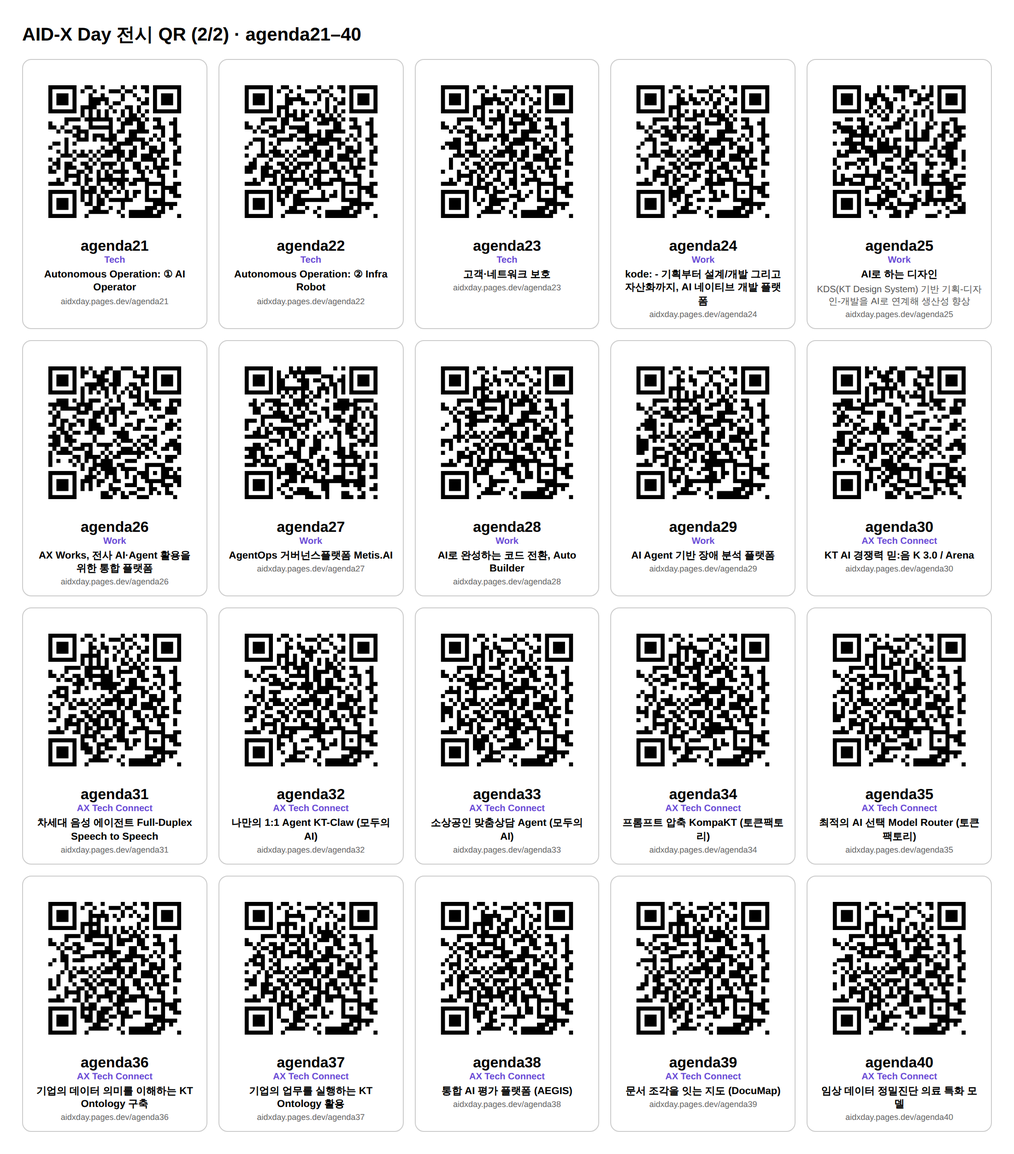
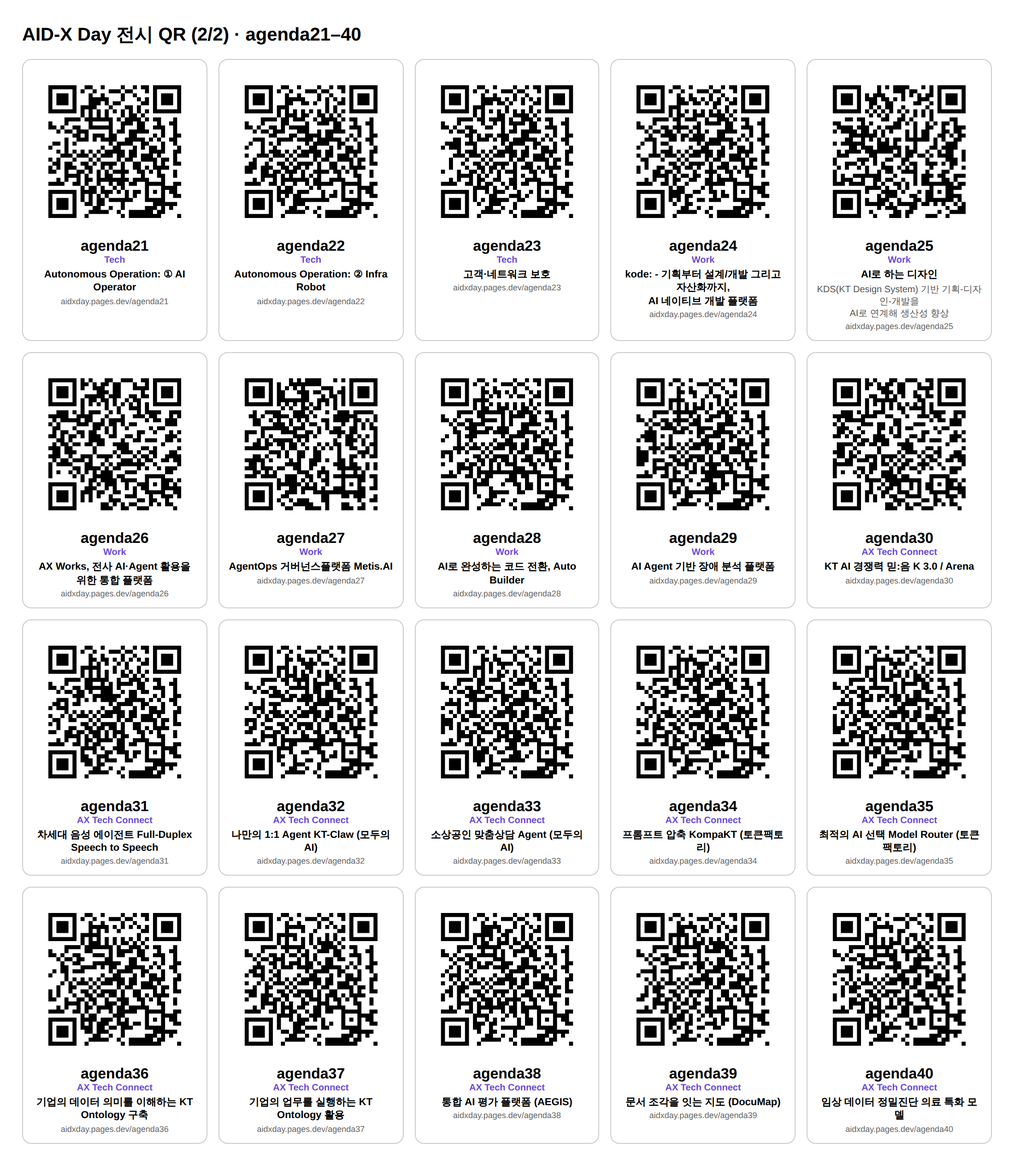
Sync aidx-day: per-category exhibit numbers, title line breaks; refresh QR sheets
Claude-Session: https://claude.ai/code/session_01ERFEuNLNeBDcTGC9L6qXGy

diff --git a/aidx-day-qr/agenda/sheet-1.html b/aidx-day-qr/agenda/sheet-1.html
@@ -1,1 +1,1 @@
-<!doctype html><meta charset=utf-8><title>AID-X Day 전시 QR (1/2) · agenda01–20</title><style>body{font-family:"Apple SD Gothic Neo","Malgun Gothic",sans-serif;margin:24px;width:1052px}h1{font-size:20px}.g{display:grid;grid-template-columns:repeat(5,1fr);gap:12px}.c{border:1px solid #ccc;border-radius:10px;padding:10px;text-align:center}.c img{width:100%}.n{font-weight:800}.z{font-size:10px;color:#6a4bd6;font-weight:700}.t{font-size:11px;margin-top:3px;line-height:1.3}.t{font-weight:700}.s{font-size:10px;color:#555;margin-top:2px;line-height:1.3}.u{font-size:9px;color:#666;margin-top:2px}</style><h1>AID-X Day 전시 QR (1/2) · agenda01–20</h1><div class=g><div class=c><img src="agenda01.svg"><div class=n>agenda01</div><div class=z>Innovation</div><div class=t>휴머노이드 Physical AI 학습•적용 모델</div><div class=s>제조•물류 AX Robot Skill Flywheel</div><div class=u>aidxday.pages.dev/agenda01</div></div><div class=c><img src="agenda02.svg"><div class=n>agenda02</div><div class=z>Innovation</div><div class=t>차량정비/보증 AX Agent Pack(feat. Glasses)</div><div class=s>연결부터 예측·정비·학습까지, Full Cycle AX</div><div class=u>aidxday.pages.dev/agenda02</div></div><div class=c><img src="agenda03.svg"><div class=n>agenda03</div><div class=z>Innovation</div><div class=t>UAM 교통관리 AX플랫폼</div><div class=s>UAM Agent 기반 도심항공 관제체계 혁신</div><div class=u>aidxday.pages.dev/agenda03</div></div><div class=c><img src="agenda04.svg"><div class=n>agenda04</div><div class=z>Innovation</div><div class=t>KT m&amp;s 유통 AX 혁신</div><div class=u>aidxday.pages.dev/agenda04</div></div><div class=c><img src="agenda05.svg"><div class=n>agenda05</div><div class=z>Innovation</div><div class=t>AX기반 글로벌 음악 콘텐츠 매출 인텔리전스</div><div class=u>aidxday.pages.dev/agenda05</div></div><div class=c><img src="agenda06.svg"><div class=n>agenda06</div><div class=z>Innovation</div><div class=t>Copilot 시나리오 플레이어</div><div class=u>aidxday.pages.dev/agenda06</div></div><div class=c><img src="agenda07.svg"><div class=n>agenda07</div><div class=z>Innovation</div><div class=t>MS Foundry Agent를 통해 Microsoft IQ 활용하기</div><div class=u>aidxday.pages.dev/agenda07</div></div><div class=c><img src="agenda08.svg"><div class=n>agenda08</div><div class=z>Biz</div><div class=t>AI, 고객의 목소리를 듣다</div><div class=s>다양한 채널의 고객 이슈와 개선 요구 발굴</div><div class=u>aidxday.pages.dev/agenda08</div></div><div class=c><img src="agenda09.svg"><div class=n>agenda09</div><div class=z>Biz</div><div class=t>태양광 발전량 예측 모델 개발 &amp; 24시간 취약점 · 오픈소스 대응 Agent</div><div class=u>aidxday.pages.dev/agenda09</div></div><div class=c><img src="agenda10.svg"><div class=n>agenda10</div><div class=z>Biz</div><div class=t>AX B2B 사업혁신</div><div class=s>AI Agent로 B2B 영업·마케팅·고객접점을 E2E로 혁신</div><div class=u>aidxday.pages.dev/agenda10</div></div><div class=c><img src="agenda11.svg"><div class=n>agenda11</div><div class=z>Biz</div><div class=t>MAGMA BIDW</div><div class=s>‘찾는’ 분석에서 ‘AI에게 묻는’ 분석으로</div><div class=u>aidxday.pages.dev/agenda11</div></div><div class=c><img src="agenda12.svg"><div class=n>agenda12</div><div class=z>Biz</div><div class=t>Orchestrator 기술로 더 똑똑해진 마이케이티 AI Agent</div><div class=u>aidxday.pages.dev/agenda12</div></div><div class=c><img src="agenda13.svg"><div class=n>agenda13</div><div class=z>Biz</div><div class=t>취향까지 이해하는 지니 TV : Evolving Persona</div><div class=u>aidxday.pages.dev/agenda13</div></div><div class=c><img src="agenda14.svg"><div class=n>agenda14</div><div class=z>Biz</div><div class=t>암묵지와 Agentic AI 기반 산업특화 AX (특허/수주전략/공공)</div><div class=u>aidxday.pages.dev/agenda14</div></div><div class=c><img src="agenda15.svg"><div class=n>agenda15</div><div class=z>Biz</div><div class=t>믿을 수 있는 안전한 통합 AI 가드레일 (토큰팩토리)</div><div class=u>aidxday.pages.dev/agenda15</div></div><div class=c><img src="agenda16.svg"><div class=n>agenda16</div><div class=z>Biz</div><div class=t>N2SF 대응을 위한 AI보안 솔루션 (PRIBIT AI)</div><div class=u>aidxday.pages.dev/agenda16</div></div><div class=c><img src="agenda17.svg"><div class=n>agenda17</div><div class=z>Tech</div><div class=t>KRONOS : AI 보안 진단 플랫폼</div><div class=u>aidxday.pages.dev/agenda17</div></div><div class=c><img src="agenda18.svg"><div class=n>agenda18</div><div class=z>Tech</div><div class=t>Edge AI 기반 Physical AI 핵심기술</div><div class=u>aidxday.pages.dev/agenda18</div></div><div class=c><img src="agenda19.svg"><div class=n>agenda19</div><div class=z>Tech</div><div class=t>6G</div><div class=u>aidxday.pages.dev/agenda19</div></div><div class=c><img src="agenda20.svg"><div class=n>agenda20</div><div class=z>Tech</div><div class=t>Quantum Security</div><div class=u>aidxday.pages.dev/agenda20</div></div></div>
+<!doctype html><meta charset=utf-8><title>AID-X Day 전시 QR (1/2) · agenda01–20</title><style>body{font-family:"Apple SD Gothic Neo","Malgun Gothic",sans-serif;margin:24px;width:1052px}h1{font-size:20px}.g{display:grid;grid-template-columns:repeat(5,1fr);gap:12px}.c{border:1px solid #ccc;border-radius:10px;padding:10px;text-align:center}.c img{width:100%}.n{font-weight:800}.z{font-size:10px;color:#6a4bd6;font-weight:700}.t{font-size:11px;margin-top:3px;line-height:1.3}.t{font-weight:700}.s{font-size:10px;color:#555;margin-top:2px;line-height:1.3}.u{font-size:9px;color:#666;margin-top:2px}</style><h1>AID-X Day 전시 QR (1/2) · agenda01–20</h1><div class=g><div class=c><img src="agenda01.svg"><div class=n>agenda01</div><div class=z>Innovation</div><div class=t>휴머노이드 Physical AI 학습•적용 모델</div><div class=s>제조•물류 AX Robot Skill Flywheel</div><div class=u>aidxday.pages.dev/agenda01</div></div><div class=c><img src="agenda02.svg"><div class=n>agenda02</div><div class=z>Innovation</div><div class=t>차량정비/보증 AX Agent Pack(feat. Glasses)</div><div class=s>연결부터 예측·정비·학습까지, Full Cycle AX</div><div class=u>aidxday.pages.dev/agenda02</div></div><div class=c><img src="agenda03.svg"><div class=n>agenda03</div><div class=z>Innovation</div><div class=t>UAM 교통관리 AX플랫폼</div><div class=s>UAM Agent 기반 도심항공 관제체계 혁신</div><div class=u>aidxday.pages.dev/agenda03</div></div><div class=c><img src="agenda04.svg"><div class=n>agenda04</div><div class=z>Innovation</div><div class=t>KT m&amp;s 유통 AX 혁신</div><div class=u>aidxday.pages.dev/agenda04</div></div><div class=c><img src="agenda05.svg"><div class=n>agenda05</div><div class=z>Innovation</div><div class=t>AX기반 글로벌 음악 콘텐츠 매출 인텔리전스</div><div class=u>aidxday.pages.dev/agenda05</div></div><div class=c><img src="agenda06.svg"><div class=n>agenda06</div><div class=z>Innovation</div><div class=t>Copilot 시나리오 플레이어</div><div class=u>aidxday.pages.dev/agenda06</div></div><div class=c><img src="agenda07.svg"><div class=n>agenda07</div><div class=z>Innovation</div><div class=t>MS Foundry Agent를 통해 Microsoft IQ 활용하기</div><div class=u>aidxday.pages.dev/agenda07</div></div><div class=c><img src="agenda08.svg"><div class=n>agenda08</div><div class=z>Biz</div><div class=t>AI, 고객의 목소리를 듣다</div><div class=s>다양한 채널의 고객 이슈와 개선 요구 발굴</div><div class=u>aidxday.pages.dev/agenda08</div></div><div class=c><img src="agenda09.svg"><div class=n>agenda09</div><div class=z>Biz</div><div class=t>태양광 발전량 예측 모델 개발 &amp; 24시간 취약점 · 오픈소스 대응 Agent</div><div class=u>aidxday.pages.dev/agenda09</div></div><div class=c><img src="agenda10.svg"><div class=n>agenda10</div><div class=z>Biz</div><div class=t>AX B2B 사업혁신</div><div class=s>AI Agent로 B2B 영업·마케팅·고객접점을 E2E로 혁신</div><div class=u>aidxday.pages.dev/agenda10</div></div><div class=c><img src="agenda11.svg"><div class=n>agenda11</div><div class=z>Biz</div><div class=t>MAGMA BIDW</div><div class=s>‘찾는’ 분석에서 ‘AI에게 묻는’ 분석으로</div><div class=u>aidxday.pages.dev/agenda11</div></div><div class=c><img src="agenda12.svg"><div class=n>agenda12</div><div class=z>Biz</div><div class=t>Orchestrator 기술로 더 똑똑해진<br>마이케이티 AI Agent</div><div class=u>aidxday.pages.dev/agenda12</div></div><div class=c><img src="agenda13.svg"><div class=n>agenda13</div><div class=z>Biz</div><div class=t>취향까지 이해하는 지니 TV : Evolving Persona</div><div class=u>aidxday.pages.dev/agenda13</div></div><div class=c><img src="agenda14.svg"><div class=n>agenda14</div><div class=z>Biz</div><div class=t>암묵지와 Agentic AI 기반 산업특화 AX (특허/수주전략/공공)</div><div class=u>aidxday.pages.dev/agenda14</div></div><div class=c><img src="agenda15.svg"><div class=n>agenda15</div><div class=z>Biz</div><div class=t>믿을 수 있는 안전한 통합 AI 가드레일 (토큰팩토리)</div><div class=u>aidxday.pages.dev/agenda15</div></div><div class=c><img src="agenda16.svg"><div class=n>agenda16</div><div class=z>Biz</div><div class=t>N2SF 대응을 위한 AI보안 솔루션 (PRIBIT AI)</div><div class=u>aidxday.pages.dev/agenda16</div></div><div class=c><img src="agenda17.svg"><div class=n>agenda17</div><div class=z>Tech</div><div class=t>KRONOS : AI 보안 진단 플랫폼</div><div class=u>aidxday.pages.dev/agenda17</div></div><div class=c><img src="agenda18.svg"><div class=n>agenda18</div><div class=z>Tech</div><div class=t>Edge AI 기반 Physical AI 핵심기술</div><div class=u>aidxday.pages.dev/agenda18</div></div><div class=c><img src="agenda19.svg"><div class=n>agenda19</div><div class=z>Tech</div><div class=t>6G</div><div class=u>aidxday.pages.dev/agenda19</div></div><div class=c><img src="agenda20.svg"><div class=n>agenda20</div><div class=z>Tech</div><div class=t>Quantum Security</div><div class=u>aidxday.pages.dev/agenda20</div></div></div>

diff --git a/aidx-day-qr/agenda/sheet-2.html b/aidx-day-qr/agenda/sheet-2.html
@@ -1,1 +1,1 @@
-<!doctype html><meta charset=utf-8><title>AID-X Day 전시 QR (2/2) · agenda21–40</title><style>body{font-family:"Apple SD Gothic Neo","Malgun Gothic",sans-serif;margin:24px;width:1052px}h1{font-size:20px}.g{display:grid;grid-template-columns:repeat(5,1fr);gap:12px}.c{border:1px solid #ccc;border-radius:10px;padding:10px;text-align:center}.c img{width:100%}.n{font-weight:800}.z{font-size:10px;color:#6a4bd6;font-weight:700}.t{font-size:11px;margin-top:3px;line-height:1.3}.t{font-weight:700}.s{font-size:10px;color:#555;margin-top:2px;line-height:1.3}.u{font-size:9px;color:#666;margin-top:2px}</style><h1>AID-X Day 전시 QR (2/2) · agenda21–40</h1><div class=g><div class=c><img src="agenda21.svg"><div class=n>agenda21</div><div class=z>Tech</div><div class=t>Autonomous Operation: ① AI Operator</div><div class=u>aidxday.pages.dev/agenda21</div></div><div class=c><img src="agenda22.svg"><div class=n>agenda22</div><div class=z>Tech</div><div class=t>Autonomous Operation: ② Infra Robot</div><div class=u>aidxday.pages.dev/agenda22</div></div><div class=c><img src="agenda23.svg"><div class=n>agenda23</div><div class=z>Tech</div><div class=t>고객·네트워크 보호</div><div class=u>aidxday.pages.dev/agenda23</div></div><div class=c><img src="agenda24.svg"><div class=n>agenda24</div><div class=z>Work</div><div class=t>kode: - 기획부터 설계/개발 그리고 자산화까지, AI 네이티브 개발 플랫폼</div><div class=u>aidxday.pages.dev/agenda24</div></div><div class=c><img src="agenda25.svg"><div class=n>agenda25</div><div class=z>Work</div><div class=t>AI로 하는 디자인</div><div class=s>KDS(KT Design System) 기반 기획-디자인-개발을 AI로 연계해 생산성 향상</div><div class=u>aidxday.pages.dev/agenda25</div></div><div class=c><img src="agenda26.svg"><div class=n>agenda26</div><div class=z>Work</div><div class=t>AX Works, 전사 AI·Agent 활용을 위한 통합 플랫폼</div><div class=u>aidxday.pages.dev/agenda26</div></div><div class=c><img src="agenda27.svg"><div class=n>agenda27</div><div class=z>Work</div><div class=t>AgentOps 거버넌스플랫폼 Metis.AI</div><div class=u>aidxday.pages.dev/agenda27</div></div><div class=c><img src="agenda28.svg"><div class=n>agenda28</div><div class=z>Work</div><div class=t>AI로 완성하는 코드 전환, Auto Builder</div><div class=u>aidxday.pages.dev/agenda28</div></div><div class=c><img src="agenda29.svg"><div class=n>agenda29</div><div class=z>Work</div><div class=t>AI Agent 기반 장애 분석 플랫폼</div><div class=u>aidxday.pages.dev/agenda29</div></div><div class=c><img src="agenda30.svg"><div class=n>agenda30</div><div class=z>AX Tech Connect</div><div class=t>KT AI 경쟁력 믿:음 K 3.0 / Arena</div><div class=u>aidxday.pages.dev/agenda30</div></div><div class=c><img src="agenda31.svg"><div class=n>agenda31</div><div class=z>AX Tech Connect</div><div class=t>차세대 음성 에이전트 Full-Duplex Speech to Speech</div><div class=u>aidxday.pages.dev/agenda31</div></div><div class=c><img src="agenda32.svg"><div class=n>agenda32</div><div class=z>AX Tech Connect</div><div class=t>나만의 1:1 Agent KT-Claw (모두의 AI)</div><div class=u>aidxday.pages.dev/agenda32</div></div><div class=c><img src="agenda33.svg"><div class=n>agenda33</div><div class=z>AX Tech Connect</div><div class=t>소상공인 맞춤상담 Agent (모두의 AI)</div><div class=u>aidxday.pages.dev/agenda33</div></div><div class=c><img src="agenda34.svg"><div class=n>agenda34</div><div class=z>AX Tech Connect</div><div class=t>프롬프트 압축 KompaKT (토큰팩토리)</div><div class=u>aidxday.pages.dev/agenda34</div></div><div class=c><img src="agenda35.svg"><div class=n>agenda35</div><div class=z>AX Tech Connect</div><div class=t>최적의 AI 선택 Model Router (토큰팩토리)</div><div class=u>aidxday.pages.dev/agenda35</div></div><div class=c><img src="agenda36.svg"><div class=n>agenda36</div><div class=z>AX Tech Connect</div><div class=t>기업의 데이터 의미를 이해하는 KT Ontology 구축</div><div class=u>aidxday.pages.dev/agenda36</div></div><div class=c><img src="agenda37.svg"><div class=n>agenda37</div><div class=z>AX Tech Connect</div><div class=t>기업의 업무를 실행하는 KT Ontology 활용</div><div class=u>aidxday.pages.dev/agenda37</div></div><div class=c><img src="agenda38.svg"><div class=n>agenda38</div><div class=z>AX Tech Connect</div><div class=t>통합 AI 평가 플랫폼 (AEGIS)</div><div class=u>aidxday.pages.dev/agenda38</div></div><div class=c><img src="agenda39.svg"><div class=n>agenda39</div><div class=z>AX Tech Connect</div><div class=t>문서 조각을 잇는 지도 (DocuMap)</div><div class=u>aidxday.pages.dev/agenda39</div></div><div class=c><img src="agenda40.svg"><div class=n>agenda40</div><div class=z>AX Tech Connect</div><div class=t>임상 데이터 정밀진단 의료 특화 모델</div><div class=u>aidxday.pages.dev/agenda40</div></div></div>
+<!doctype html><meta charset=utf-8><title>AID-X Day 전시 QR (2/2) · agenda21–40</title><style>body{font-family:"Apple SD Gothic Neo","Malgun Gothic",sans-serif;margin:24px;width:1052px}h1{font-size:20px}.g{display:grid;grid-template-columns:repeat(5,1fr);gap:12px}.c{border:1px solid #ccc;border-radius:10px;padding:10px;text-align:center}.c img{width:100%}.n{font-weight:800}.z{font-size:10px;color:#6a4bd6;font-weight:700}.t{font-size:11px;margin-top:3px;line-height:1.3}.t{font-weight:700}.s{font-size:10px;color:#555;margin-top:2px;line-height:1.3}.u{font-size:9px;color:#666;margin-top:2px}</style><h1>AID-X Day 전시 QR (2/2) · agenda21–40</h1><div class=g><div class=c><img src="agenda21.svg"><div class=n>agenda21</div><div class=z>Tech</div><div class=t>Autonomous Operation: ① AI Operator</div><div class=u>aidxday.pages.dev/agenda21</div></div><div class=c><img src="agenda22.svg"><div class=n>agenda22</div><div class=z>Tech</div><div class=t>Autonomous Operation: ② Infra Robot</div><div class=u>aidxday.pages.dev/agenda22</div></div><div class=c><img src="agenda23.svg"><div class=n>agenda23</div><div class=z>Tech</div><div class=t>고객·네트워크 보호</div><div class=u>aidxday.pages.dev/agenda23</div></div><div class=c><img src="agenda24.svg"><div class=n>agenda24</div><div class=z>Work</div><div class=t>kode: - 기획부터 설계/개발 그리고 자산화까지,<br>AI 네이티브 개발 플랫폼</div><div class=u>aidxday.pages.dev/agenda24</div></div><div class=c><img src="agenda25.svg"><div class=n>agenda25</div><div class=z>Work</div><div class=t>AI로 하는 디자인</div><div class=s>KDS(KT Design System) 기반 기획-디자인-개발을<br>AI로 연계해 생산성 향상</div><div class=u>aidxday.pages.dev/agenda25</div></div><div class=c><img src="agenda26.svg"><div class=n>agenda26</div><div class=z>Work</div><div class=t>AX Works, 전사 AI·Agent 활용을 위한 통합 플랫폼</div><div class=u>aidxday.pages.dev/agenda26</div></div><div class=c><img src="agenda27.svg"><div class=n>agenda27</div><div class=z>Work</div><div class=t>AgentOps 거버넌스플랫폼 Metis.AI</div><div class=u>aidxday.pages.dev/agenda27</div></div><div class=c><img src="agenda28.svg"><div class=n>agenda28</div><div class=z>Work</div><div class=t>AI로 완성하는 코드 전환, Auto Builder</div><div class=u>aidxday.pages.dev/agenda28</div></div><div class=c><img src="agenda29.svg"><div class=n>agenda29</div><div class=z>Work</div><div class=t>AI Agent 기반 장애 분석 플랫폼</div><div class=u>aidxday.pages.dev/agenda29</div></div><div class=c><img src="agenda30.svg"><div class=n>agenda30</div><div class=z>AX Tech Connect</div><div class=t>KT AI 경쟁력 믿:음 K 3.0 / Arena</div><div class=u>aidxday.pages.dev/agenda30</div></div><div class=c><img src="agenda31.svg"><div class=n>agenda31</div><div class=z>AX Tech Connect</div><div class=t>차세대 음성 에이전트 Full-Duplex Speech to Speech</div><div class=u>aidxday.pages.dev/agenda31</div></div><div class=c><img src="agenda32.svg"><div class=n>agenda32</div><div class=z>AX Tech Connect</div><div class=t>나만의 1:1 Agent KT-Claw (모두의 AI)</div><div class=u>aidxday.pages.dev/agenda32</div></div><div class=c><img src="agenda33.svg"><div class=n>agenda33</div><div class=z>AX Tech Connect</div><div class=t>소상공인 맞춤상담 Agent (모두의 AI)</div><div class=u>aidxday.pages.dev/agenda33</div></div><div class=c><img src="agenda34.svg"><div class=n>agenda34</div><div class=z>AX Tech Connect</div><div class=t>프롬프트 압축 KompaKT (토큰팩토리)</div><div class=u>aidxday.pages.dev/agenda34</div></div><div class=c><img src="agenda35.svg"><div class=n>agenda35</div><div class=z>AX Tech Connect</div><div class=t>최적의 AI 선택 Model Router (토큰팩토리)</div><div class=u>aidxday.pages.dev/agenda35</div></div><div class=c><img src="agenda36.svg"><div class=n>agenda36</div><div class=z>AX Tech Connect</div><div class=t>기업의 데이터 의미를 이해하는 KT Ontology 구축</div><div class=u>aidxday.pages.dev/agenda36</div></div><div class=c><img src="agenda37.svg"><div class=n>agenda37</div><div class=z>AX Tech Connect</div><div class=t>기업의 업무를 실행하는 KT Ontology 활용</div><div class=u>aidxday.pages.dev/agenda37</div></div><div class=c><img src="agenda38.svg"><div class=n>agenda38</div><div class=z>AX Tech Connect</div><div class=t>통합 AI 평가 플랫폼 (AEGIS)</div><div class=u>aidxday.pages.dev/agenda38</div></div><div class=c><img src="agenda39.svg"><div class=n>agenda39</div><div class=z>AX Tech Connect</div><div class=t>문서 조각을 잇는 지도 (DocuMap)</div><div class=u>aidxday.pages.dev/agenda39</div></div><div class=c><img src="agenda40.svg"><div class=n>agenda40</div><div class=z>AX Tech Connect</div><div class=t>임상 데이터 정밀진단 의료 특화 모델</div><div class=u>aidxday.pages.dev/agenda40</div></div></div>

diff --git a/aidx-day/exhibits.js b/aidx-day/exhibits.js
@@ -7,6 +7,7 @@
    label   : 제목 앞 말머리 (예: "Garage") — 선택
    title   : 전시 제목 (여러 개면 ["(1) ...", "(2) ..."] 배열로)
    sub     : 부제목 — 제목 아래 작고 가는 글씨로 보여요 (선택)
+   ※ 제목·부제목 안의 \n 은 화면에서 줄바꿈돼요
    team    : 사이트에 보이는 담당 조직 (리플릿 테이블보드의 본부/조직)
    org     : 담당 부문 (기록용, 화면에는 안 보여요)
    ── 아래는 준비되는 대로 채우면 돼요. 비어 있으면 화면에서 숨기거나 '준비 중'으로 보여요.
@@ -64,7 +65,7 @@ const EXHIBITS = [
   { id: "agenda11", part: "biz", org: "IT부문", team: "AX플랫폼본부",
     title: "MAGMA BIDW", sub: "‘찾는’ 분석에서 ‘AI에게 묻는’ 분석으로" },
   { id: "agenda12", part: "biz", org: "AX미래기술원/IT부문", team: "Agentic AI Lab · AX플랫폼본부",
-    title: "Orchestrator 기술로 더 똑똑해진 마이케이티 AI Agent" },
+    title: "Orchestrator 기술로 더 똑똑해진\n마이케이티 AI Agent" },
   { id: "agenda13", part: "biz", org: "AX미래기술원", team: "Agentic AI Lab",
     title: "취향까지 이해하는 지니 TV : Evolving Persona" },
   { id: "agenda14", part: "biz", org: "AX미래기술원", team: "Agentic AI Lab",
@@ -92,9 +93,9 @@ const EXHIBITS = [
 
   // ---------------- Work (6) ----------------
   { id: "agenda24", part: "works", org: "IT부문", team: "IT전략본부",
-    title: "kode: - 기획부터 설계/개발 그리고 자산화까지, AI 네이티브 개발 플랫폼" },
+    title: "kode: - 기획부터 설계/개발 그리고 자산화까지,\nAI 네이티브 개발 플랫폼" },
   { id: "agenda25", part: "works", org: "IT부문", team: "AX플랫폼본부",
-    title: "AI로 하는 디자인", sub: "KDS(KT Design System) 기반 기획-디자인-개발을 AI로 연계해 생산성 향상" },
+    title: "AI로 하는 디자인", sub: "KDS(KT Design System) 기반 기획-디자인-개발을\nAI로 연계해 생산성 향상" },
   { id: "agenda26", part: "works", org: "IT부문", team: "AX플랫폼본부",
     title: "AX Works, 전사 AI·Agent 활용을 위한 통합 플랫폼" },
   { id: "agenda27", part: "works", org: "그룹사", team: "kt ds",
@@ -128,7 +129,12 @@ const ALL_EXHIBITS = [...EXHIBITS, ...TECH_CONNECT.items.map(x => ({ ...x, part:
 
 // 화면 표시용 도우미 (목록·상세 페이지 공통)
 const exTitles = e => Array.isArray(e.title) ? e.title : [e.title];
-const exTitleMain = e => (e.label ? `[${e.label}] ` : "") + exTitles(e).join(" / ");
-const exTitleText = e => exTitleMain(e) + (e.sub ? " " + e.sub : "");  // 페이지 제목·미리보기용 (부제목 포함)
+const flat = t => t.replace(/\s*\n\s*/g, " ");
+const exTitleMain = e => flat((e.label ? `[${e.label}] ` : "") + exTitles(e).join(" / "));
+const exTitleText = e => exTitleMain(e) + (e.sub ? " " + flat(e.sub) : "");  // 페이지 제목·미리보기용 (부제목 포함)
 const exTeam = e => e.team;
-const exNo = e => e.id.replace(/\D/g, "");
+// 화면에 보이는 번호 = 분류 안에서의 순서 (Innovation 01, Tech 01 …). 링크 주소(id)와는 별개예요
+const exNo = e => {
+  const part = ALL_EXHIBITS.find(x => x.id === e.id).part;
+  return String(ALL_EXHIBITS.filter(x => x.part === part).findIndex(x => x.id === e.id) + 1).padStart(2, "0");
+};

diff --git a/aidx-day/index.html b/aidx-day/index.html
@@ -437,9 +437,9 @@
   .ex-top { display: flex; justify-content: space-between; align-items: center; margin-bottom: 8px; }
   .ex-no { font-size: 12px; font-weight: 800; color: var(--c); font-variant-numeric: tabular-nums; letter-spacing: .04em; }
   .ex-title { font-size: 16px; font-weight: 800; line-height: 1.38; }
-  .ex-title span { display: block; }
+  .ex-title span { display: block; white-space: pre-line; }
   .ex-title span + span { margin-top: 4px; }
-  .ex-sub { font-size: 13.5px; font-weight: 500; color: var(--ink); opacity: .78; line-height: 1.45; margin-top: 4px; }
+  .ex-sub { white-space: pre-line; font-size: 13.5px; font-weight: 500; color: var(--ink); opacity: .78; line-height: 1.45; margin-top: 4px; }
   .ex-team { font-size: 13px; color: var(--ink-dim); margin-top: 6px; }
   .ex-sum { font-size: 14px; color: var(--ink-dim); margin-top: 8px; }
   .ex-more { font-size: 13px; font-weight: 800; color: var(--c); margin-top: 10px; }
@@ -1244,7 +1244,7 @@ function renderExhibits(v) {
     h("div", { class: "ex-grid" }, list.map(e =>
       h("a", { class: "ex-card", href: e.id },
         h("div", { class: "ex-top" },
-          h("span", { class: "ex-no" }, `Agenda ${exNo(e)}`),
+          h("span", { class: "ex-no" }, exNo(e)),
           e.label || e.booth ? h("span", { class: "badge", style: `--c:${p.color}` }, e.label || e.booth) : null),
         h("div", { class: "ex-title" }, exTitles(e).map(t => h("span", {}, t))),
         e.sub ? h("div", { class: "ex-sub" }, e.sub) : null,

diff --git a/aidx-day/agenda.css b/aidx-day/agenda.css
@@ -85,12 +85,12 @@ a { color: inherit; }
 }
 .head .row { display: flex; flex-wrap: wrap; align-items: center; gap: 8px; margin-bottom: 12px; }
 .head .num { font-size: 13px; color: var(--ink-faint); font-variant-numeric: tabular-nums; }
-.head h1 { margin: 0 0 8px; font-size: clamp(26px, 6.5vw, 40px); line-height: 1.2; font-weight: 900; letter-spacing: -0.02em; }
+.head h1 { white-space: pre-line; margin: 0 0 8px; font-size: clamp(26px, 6.5vw, 40px); line-height: 1.2; font-weight: 900; letter-spacing: -0.02em; }
 .head h1.multi { font-size: clamp(21px, 5.2vw, 30px); }
 .head h1.multi span { display: block; }
 .head h1.multi span + span { margin-top: 6px; }
 .card p.pending { color: var(--ink-dim); }
-.head .subtitle { margin: -2px 0 12px; font-size: clamp(16px, 4.2vw, 20px); font-weight: 500; line-height: 1.45; opacity: .82; }
+.head .subtitle { white-space: pre-line; margin: -2px 0 12px; font-size: clamp(16px, 4.2vw, 20px); font-weight: 500; line-height: 1.45; opacity: .82; }
 .head .team { color: var(--ink-dim); font-size: 15px; margin-bottom: 12px; }
 .head .summary { font-size: 17px; margin: 0; }
 

diff --git a/aidx-day/agenda.js b/aidx-day/agenda.js
@@ -54,7 +54,7 @@
       h("span", { class: "badge" }, part.name),
       x.label ? h("span", { class: "badge" }, x.label) : null,
       x.booth ? h("span", { class: "badge" }, `${x.booth} 부스`) : null,
-      h("span", { class: "num" }, `Agenda ${exNo(x)}`)),
+      h("span", { class: "num" }, exNo(x))),
     titles.length > 1
       ? h("h1", { class: "multi" }, titles.map(t => h("span", {}, t)))
       : h("h1", {}, titles[0]),
@@ -66,7 +66,7 @@
   if (x.image) visual.append(h("img", { src: x.image, alt: exTitleText(x) }));
   else visual.append(h("div", { class: "ph" },
     part.icon ? h("img", { src: part.icon, alt: "", "aria-hidden": "true" }) : null,
-    h("div", { class: "cap" }, h("b", {}, part.name), h("span", {}, x.booth ? `BOOTH ${x.booth}` : `AGENDA ${exNo(x)}`))));
+    h("div", { class: "cap" }, h("b", {}, part.name), h("span", {}, x.booth ? `BOOTH ${x.booth}` : exNo(x)))));
 
   const main = h("div", { class: "grid" },
     h("section", { class: "card" }, h("h2", { class: "label" }, "소개"),
